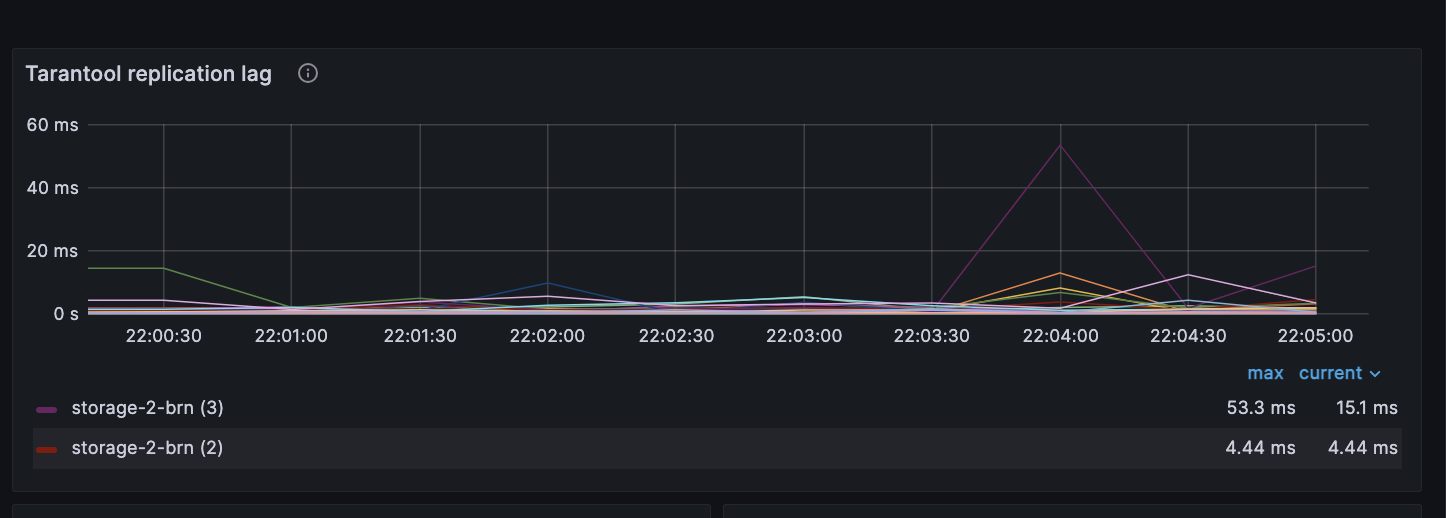
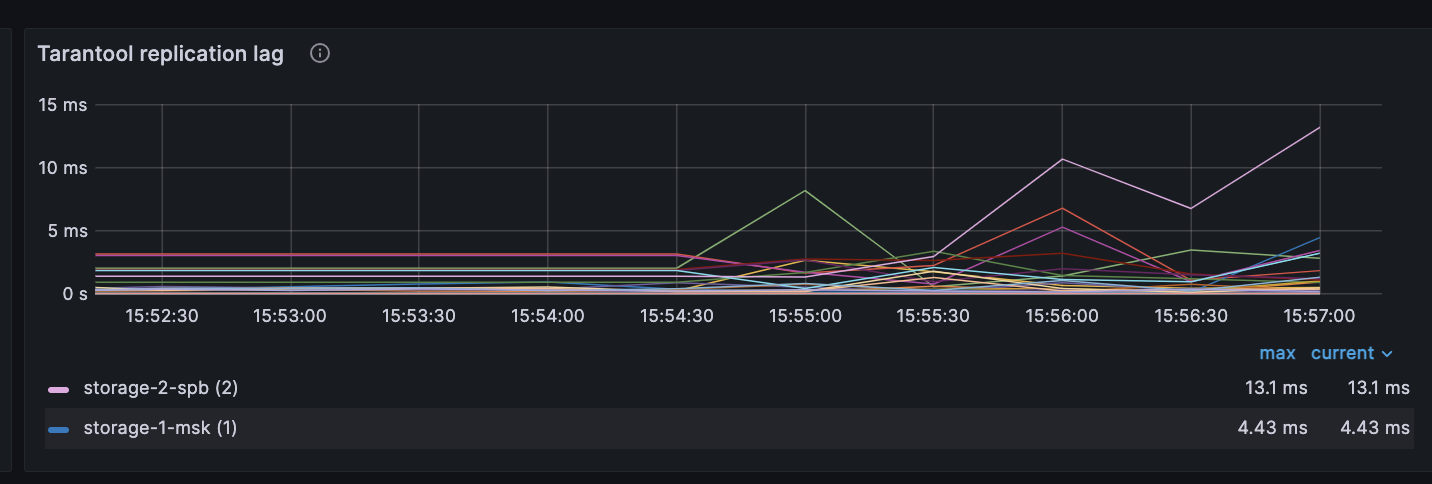
Правки в примере

diff --git a/examples/sync_replication/go/main.go b/examples/sync_replication/go/main.go
@@ -18,7 +18,7 @@ import (
 const (
 	USER    = "admin"
 	PASS    = "secret-cluster-cookie"
-	STREAMS = 64
+	STREAMS = 120
 )
 
 var routerUriList = []string{"localhost:3301", "localhost:3302"}

diff --git a/examples/sync_replication/sync_replication.md b/examples/sync_replication/sync_replication.md
@@ -129,9 +129,13 @@ go run -tags go_tarantool_ssl_disable main.go target=sync
 Теперь обратим внимание на график `Tarantool replication lag`:
 
 Можно заметить небольшое расхождение при синхронной репликации
-![](./images/replication_lag_sync.png)
-Но если запустить запись в асинхронный спейс, можно заметить, что лаг стал чуть больше:
+![](./images/replication_lag_sync2.png)
+Как можно заметить значение подскачило до 130ms. Синхронная репликация чуть медленнее отрабатывает. Это связано с тем, что ко времени коммита прибавляется replication_lag.
+
+Но если запустить запись в асинхронный спейс, можно заметить, что лаг стал чуть меньше:
 ![](./images/replication_lag_async.png)
+
+В клиентском приложении есть константа `STREAMS = 120`. При увеличении количества потоков увеличится и нагрузка, а как следствие увеличится расхождение по replication_lag.
 
 (user_guide-go_balancer-stop_example)=
 ## Остановка стенда
